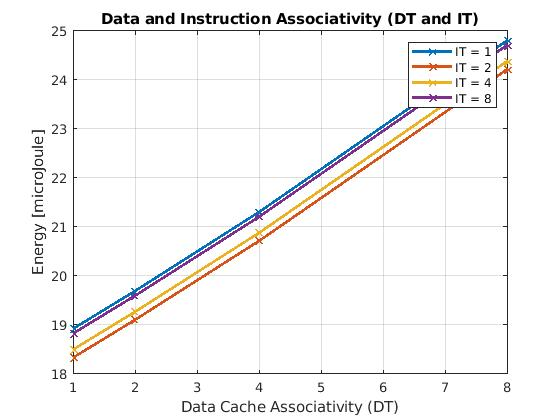
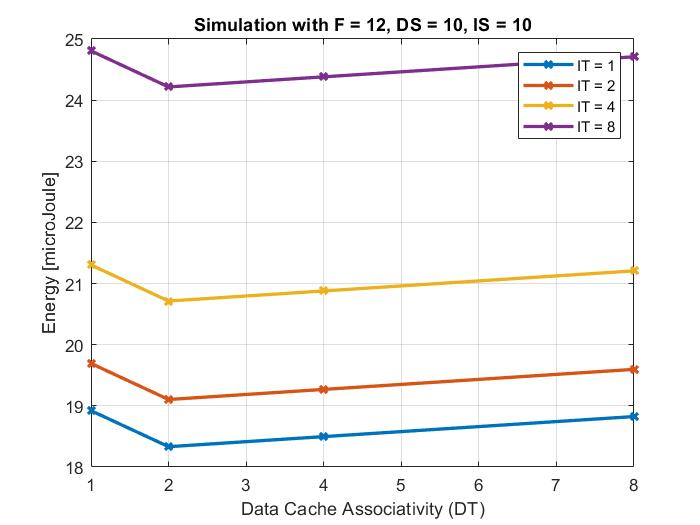
Fixed pictures Assignment1

Changed region(s): [[0.0607, 0.031, 0.9107, 0.9905], [0.6679, 0.1857, 0.6982, 0.2167], [0.2125, 0.2786, 0.2429, 0.3095]]

diff --git a/Lab2/Assignment1/Matlab/Plot_min_energy.m b/Lab2/Assignment1/Matlab/Plot_min_energy.m
@@ -8,7 +8,7 @@ Limit = 20*ones(1,length(F));
 
 plot(F,T/1e6, F,Limit, 'Linewidth',2)
 xlabel("Frequency Divider") 
-grid on
+grid on; set(gca,'Xtick',5:15)
 ylabel("Time [ms]")
 
 yyaxis right
@@ -16,7 +16,7 @@ plot(F, E/1e6, 'Linewidth', 2)
 ylabel("Energy [microJoule]")
 
 legend(["Total time of execution" "Application time limit" "Total Energy of the system"])
-
+title("Simulation with  DS = 12, DT = 1, IS = 13, IT = 2")
 %% 
 clc; clear variables; close all;
 DATA =  readmatrix("Sweep_Cache_Sizes.txt");
@@ -36,12 +36,12 @@ plot(   DS, M(1,:), ...
 grid on, xlabel("DS = log2(Data Cache Size)")
 ylabel("Energy [microJoule]")
 legend(["IS = 8" "IS = 9" "IS = 10" "IS = 11" "IS = 12" "IS = 13" "IS = 14" ])
-        
+title("Simulation with F = 12, DT = 1, IT = 1")        
 %%
 clc; clear variables; close all;
 DATA =  readmatrix("Sweep_Associativy.txt");
 E = DATA(2:4:end, 2)./1e6; %from PicoJoule to MicroJoule
-M = reshape(E, [4,4])'; %rows are increasing IT
+M = reshape(E, [4,4]); %rows are increasing DT
 
 DTIT = 2.^(0:3);
 plot(DTIT, M(1, :), '-x',...
@@ -51,4 +51,4 @@ plot(DTIT, M(1, :), '-x',...
 grid on, xlabel("Data Cache Associativity (DT)")
 ylabel("Energy [microJoule]")
 legend(["IT = 1" "IT = 2" "IT = 4" "IT = 8"])
-title("Data and Instruction Associativity (DT and IT)")
+title("Simulation with F = 12, DS = 10, IS = 10")
